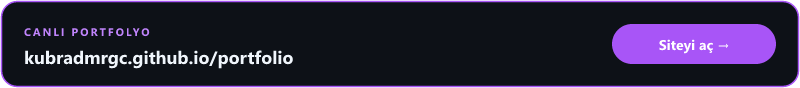
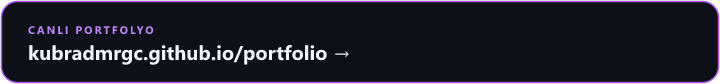
Canli site bandini tek sutuna sadeleştir

diff --git a/scripts/render-assets.js b/scripts/render-assets.js
@@ -111,14 +111,12 @@ card("card-taksimetre.png", "taksimetre", taksi1, taksi2, "#fde047", "JavaScript
 
 png(
   "live-banner.png",
-  `<svg xmlns="http://www.w3.org/2000/svg" width="800" height="88" viewBox="0 0 800 88">
-  <rect x="1.5" y="1.5" width="797" height="85" rx="16" fill="#0d1117" stroke="#a855f7" stroke-width="1.5"/>
-  <text x="24" y="36" font-family="Segoe UI, Ubuntu, sans-serif" font-size="11" font-weight="700" letter-spacing="2" fill="#c084fc">${esc(liveKicker)}</text>
-  <text x="24" y="64" font-family="Segoe UI, Ubuntu, sans-serif" font-size="18" font-weight="700" fill="#f0f6fc">${esc(liveUrl)}</text>
-  <rect x="612" y="24" width="164" height="40" rx="20" fill="#a855f7"/>
-  <text x="694" y="50" text-anchor="middle" font-family="Segoe UI, Ubuntu, sans-serif" font-size="14" font-weight="700" fill="#ffffff">${esc(liveCta)}</text>
+  `<svg xmlns="http://www.w3.org/2000/svg" width="720" height="84" viewBox="0 0 720 84">
+  <rect x="1.5" y="1.5" width="717" height="81" rx="16" fill="#0d1117" stroke="#a855f7" stroke-width="1.5"/>
+  <text x="28" y="34" font-family="Segoe UI, Ubuntu, sans-serif" font-size="11" font-weight="700" letter-spacing="2" fill="#c084fc">${esc(liveKicker)}</text>
+  <text x="28" y="60" font-family="Segoe UI, Ubuntu, sans-serif" font-size="20" font-weight="700" fill="#f0f6fc">${esc(liveUrl)}  \u2192</text>
 </svg>`,
-  800
+  720
 );
 
 png(

diff --git a/README.md b/README.md
@@ -7,7 +7,7 @@
 **[Canlı portfolyo](https://kubradmrgc.github.io/portfolio/)** · **[GitHub](https://github.com/kubradmrgc)** · **[LinkedIn](https://www.linkedin.com/in/k%C3%BCbra-demirg%C3%BC%C3%A7-8a058728b)** · **[E-posta](mailto:kubradmrgc965@gmail.com)**
 
 <a href="https://kubradmrgc.github.io/portfolio/">
-  <img src="assets/live-banner.png" alt="Canlı portfolyo — kubradmrgc.github.io/portfolio" width="800" />
+  <img src="assets/live-banner.png" alt="Canlı portfolyo — kubradmrgc.github.io/portfolio" width="720" />
 </a>
 
 <a href="https://kubradmrgc.github.io/portfolio/">
